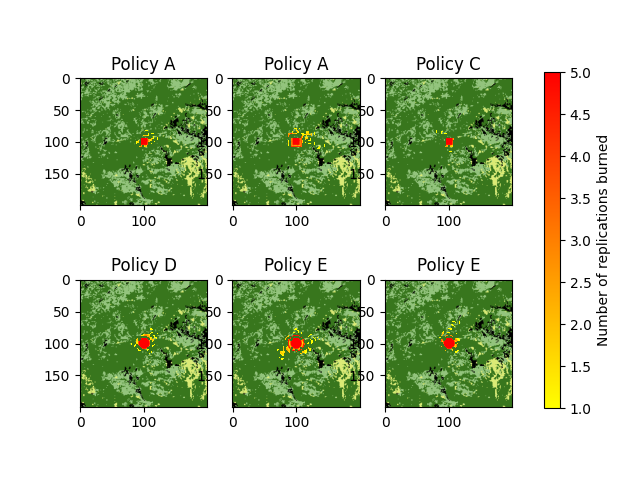
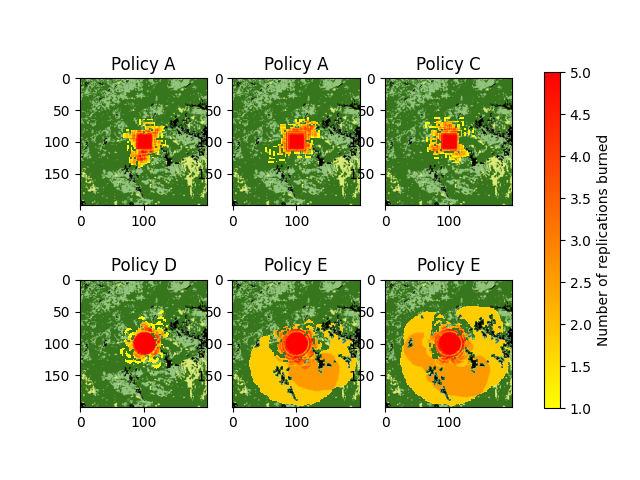
Larger area

diff --git a/wildfireDriver.py b/wildfireDriver.py
@@ -63,9 +63,9 @@ del_t = 0.5 # in hours, the time step between updates of the fire status
 breachProb = 0.05 # the probability that the fire jumps any given fire line
 
 # Establish sensitivity analysis variables
-responseTime = 3 # the number of hours before proctive lines are planned/built
-responseRadius = 4 # the number of cells away from the breach where the response lines are built
-primaryBuffer = 4 # the number of cells away from the active fire border where the primary lines are built
+responseTime = 4 # the number of hours before proctive lines are planned/built
+responseRadius = 5 # the number of cells away from the breach where the response lines are built
+primaryBuffer = 5 # the number of cells away from the active fire border where the primary lines are built
 contingencyBuffer = primaryBuffer + 3
 
 # Run N replications of each policy type
@@ -74,7 +74,6 @@ for n in range(N):
     initWindSpeed, initWindDir, breachProbs, cellTransitionProbs, allRates, speedNoise, dirNoise = getRVs()
 
     # Run one replication for each policy
-    # TODO: Store results for each policy is separate csv files
     for p in range(6):
         totAreaBurned, burnTime, totLinesBuilt, avgWind, numBreached, responseLineCounter, cumulativeFire[p] = runOneRep(n, responseTime, policies[p].fireLineShape, responseRadius, primaryBuffer, policies[p].concentric, contingencyBuffer, policies[p].spokes, totBurnArea, burnTime, totLinesBuilt, map, cumulativeFire[p], starti, startj, del_t, breachProb, initWindSpeed, initWindDir, breachProbs, cellTransitionProbs, allRates, speedNoise, dirNoise, policies[p].name)
         with open(policies[p].name + ".csv", "a") as f_out:

diff --git a/runOneRep.py b/runOneRep.py
@@ -107,7 +107,7 @@ def runOneRep(n, responseTime, fireLineShape, responseRadius, primaryBuffer, con
 
 
     cumulativeFire = np.add(cumulativeFire, fire) # Add to cumulative burn
-    print("Replication " + str(n+1) + ", " + name + ": " + str(t) + " hours to burn " + str(np.sum(fire) * 900) +" square meters" + " or " + str(np.sum(fire) * 900 * 0.000247105) + " acres")
+    print("Replication " + str(n+1) + ", " + name + ": " + str(t) + " hours to burn " + str(np.sum(fire) * 900 * 0.000247105) + " acres")
     # showOneRep(fire, veg)
 
     return totBurnArea, t, totLinesBuilt, avgWind, numBreached, responseLineCounter, cumulativeFire
